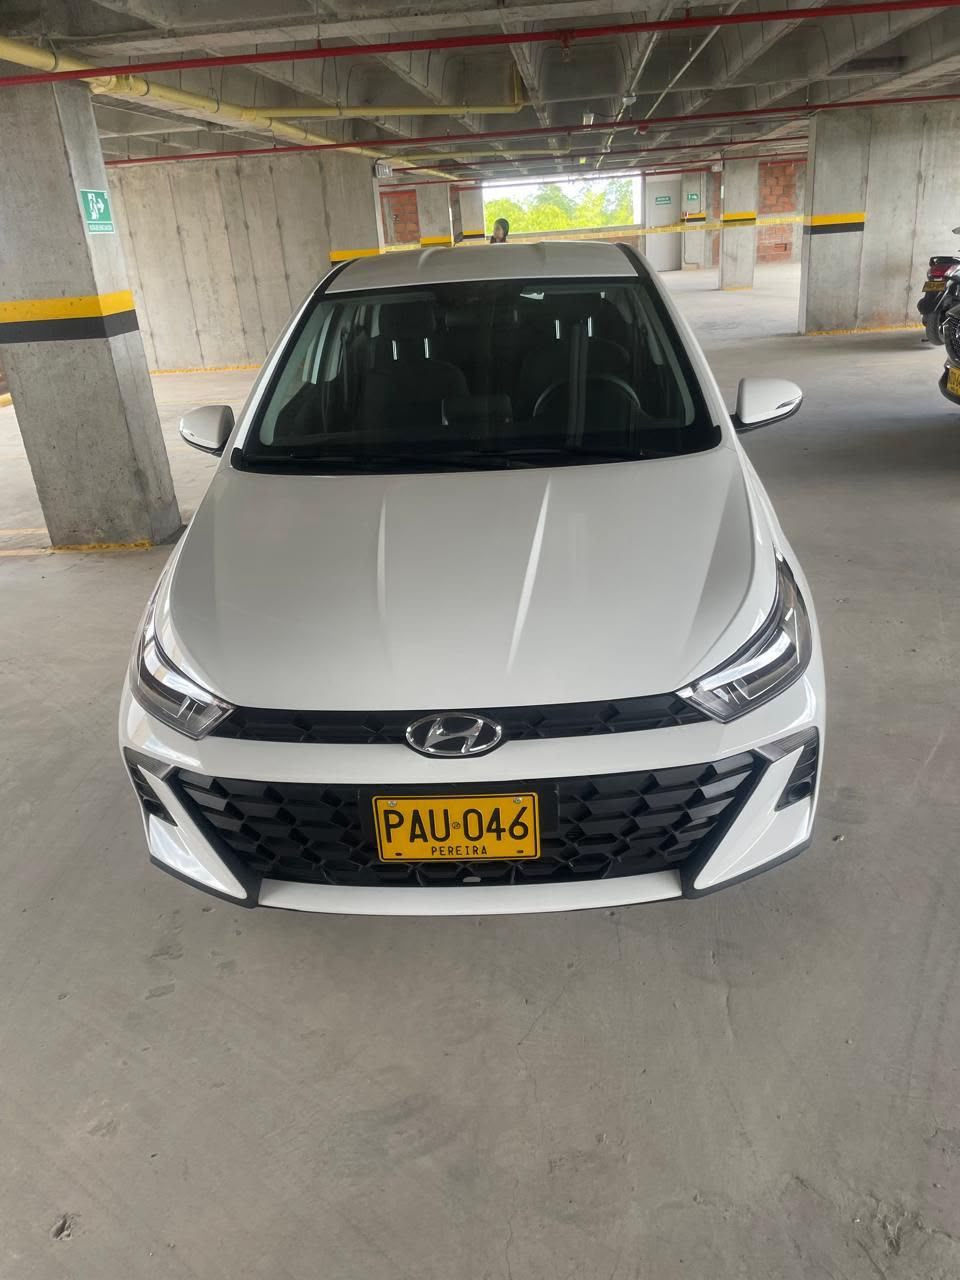
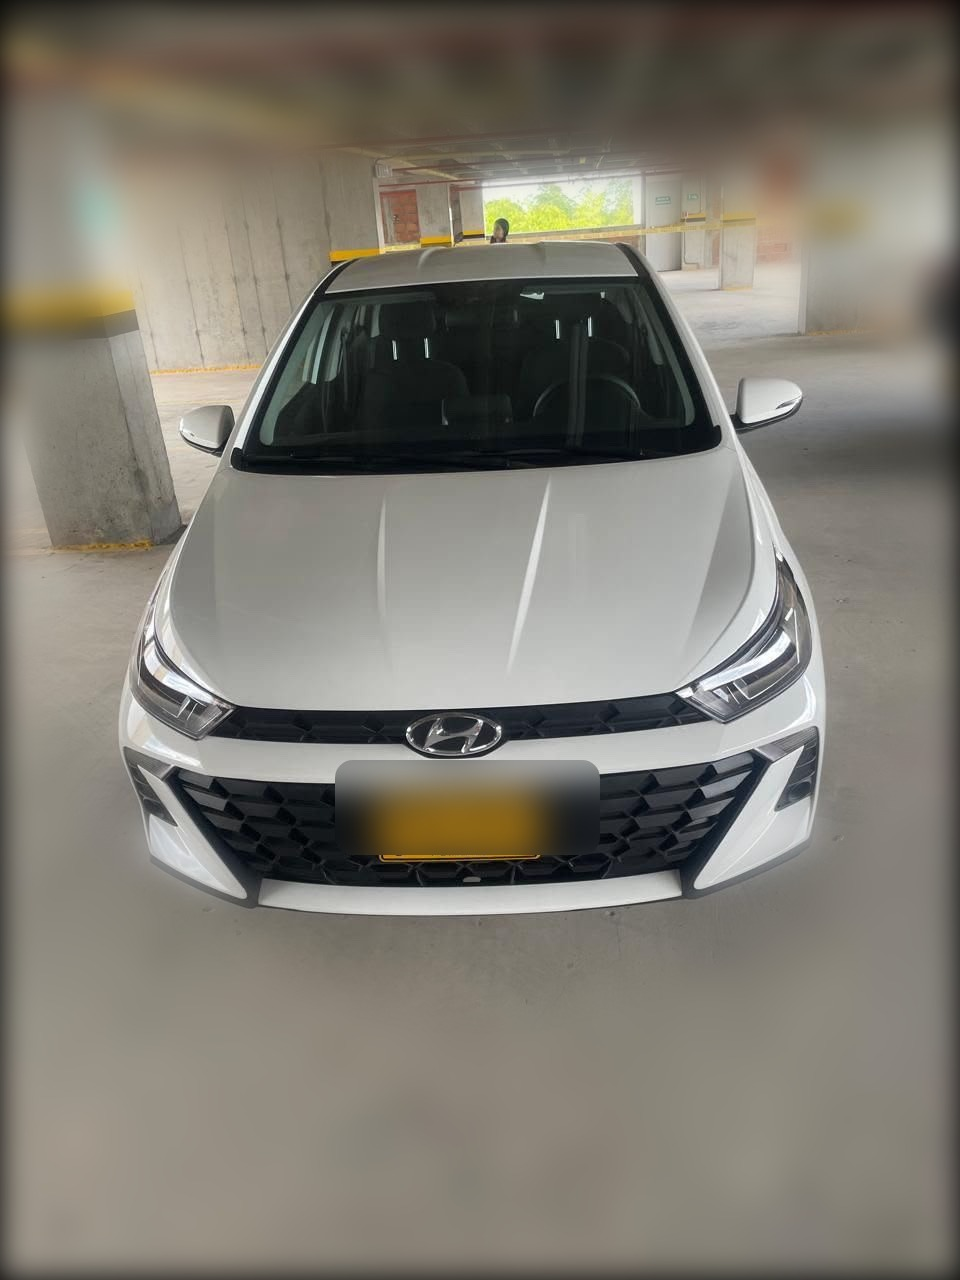
Show full car with blurred backgrounds and blurred plate
Addresses feedback that the hero photos were cropped/zoomed and the
license plate was fully visible:

- Blurred the license plate on the frontal photo (feathered rectangle
  blur via canvas), so it's unreadable but still visually present.
  Reapplied the same to og-image.jpg since it's the same photo.
- Applied a subtle background/bokeh blur to the frontal and maletero
  photos (canvas radial mask): the car body stays sharp, the garage
  clutter around it (pillars, other vehicles, floor) is softly blurred.
  Left the interior photo untouched since it has no separate background
  to blur without also blurring the dashboard itself.
- Restructured the hero: photos now render with object-fit:contain
  (computed via JS against each image's real aspect ratio) instead of
  cover, so the complete car is always visible, never cropped. A
  blurred, scaled-up copy of the same photo fills the letterboxed
  edges behind it so there's no hard black bar.
- Moved the title/CTA text out from an overlay on top of the photo into
  its own section right below the carousel. Overlaying full-height text
  and a fully-visible car conflicted structurally (the car's lower half
  needed the same space as the text), so decoupling them was the
  reliable fix rather than fighting gradient tuning per breakpoint.
- Hotspot positions are now computed in JS from the image's actual
  rendered box (accounts for contain letterboxing) instead of hardcoded
[…]

diff --git a/index.html b/index.html
@@ -212,8 +212,9 @@
   /* ---------- Hero visual: full-bleed photo carousel ---------- */
   .hero-visual{
     position:relative;
-    height:calc(100vh - var(--header-h,64px) - var(--sticky-h,0px));
+    height:80vh;
     min-height:420px;
+    max-height:820px;
     overflow:hidden;
     background:var(--ink);
   }
@@ -223,12 +224,16 @@
     transition:opacity 700ms var(--ease-out);
   }
   .hv-slide.is-active{opacity:1;pointer-events:auto;}
-  .hv-slide img{width:100%;height:100%;object-fit:cover;display:block;}
-  .hv-slide[data-slide="0"] img{object-position:center 32%;}
-  .hv-slide[data-slide="2"] img{object-position:center 40%;}
+  .hv-backdrop{
+    position:absolute;inset:0;
+    background-size:cover;background-position:center;
+    filter:blur(35px) brightness(0.75);
+    transform:scale(1.15);
+  }
+  .hv-slide img{position:relative;width:100%;height:100%;object-fit:contain;display:block;}
   .hv-overlay{
     position:absolute;inset:0;pointer-events:none;
-    background:linear-gradient(180deg, rgba(20,22,26,0.18) 0%, rgba(20,22,26,0.08) 28%, rgba(20,22,26,0.6) 48%, rgba(20,22,26,0.88) 68%, rgba(20,22,26,0.94) 100%);
+    background:linear-gradient(180deg, rgba(20,22,26,0.3) 0%, rgba(20,22,26,0) 16%, rgba(20,22,26,0) 84%, rgba(20,22,26,0.4) 100%);
   }
 
   .hotspot{
@@ -289,13 +294,15 @@
   .hv-arrow-next{right:var(--sp-4);}
   @media (max-width:640px){.hv-arrow{width:36px;height:36px;}}
 
-  .hv-content{
-    position:absolute;left:0;right:0;bottom:0;z-index:5;
-    max-width:640px;margin:0 auto;text-align:center;color:var(--paper);
-    padding:0 var(--sp-5) var(--sp-7);
+  .hv-text-section{
+    background:var(--ink);
+    padding:var(--sp-7) 0 var(--sp-6);
+    text-align:center;
+    color:var(--paper);
   }
-  .hv-content h1{font-size:var(--fs-700);color:var(--paper);font-weight:500;margin-top:var(--sp-3);}
-  .hv-content h1 .accent{color:var(--yellow);}
+  .hv-text-section .container{max-width:640px;}
+  .hv-text-section h1{font-size:var(--fs-700);color:var(--paper);font-weight:500;margin-top:var(--sp-3);}
+  .hv-text-section h1 .accent{color:var(--yellow);}
   .hero-sub{margin-top:var(--sp-3);font-size:var(--fs-300);font-weight:400;color:var(--muted);}
   .hv-dynamic{margin-top:var(--sp-2);min-height:1.4em;}
   .hero-hint{font-size:var(--fs-200);font-weight:400;color:var(--muted);}
@@ -311,15 +318,10 @@
   .hv-dynamic.open .hv-detail-card{display:block;}
   .hv-detail-card h3{font-size:var(--fs-300);color:var(--yellow);font-weight:500;}
   .hv-detail-card p{margin-top:var(--sp-2);color:var(--muted);font-size:var(--fs-200);}
-  .hv-content .btn{margin-top:var(--sp-5);}
+  .hv-text-section .btn{margin-top:var(--sp-5);}
 
   @media (max-width:640px){
-    .hv-content h1{font-size:var(--fs-600);}
-    .hv-content{padding-bottom:var(--sp-6);}
-    .hotspot[data-key="interior"]{top:16% !important;}
-    .hotspot[data-key="tech"]{top:14% !important;}
-    .hotspot[data-key="drive"]{top:26% !important;}
-    .hotspot[data-key="safety"]{top:34% !important;}
+    .hv-text-section h1{font-size:var(--fs-600);}
   }
 
   /* Reservation */
@@ -567,28 +569,31 @@
   <!-- HERO -->
   <section class="hero-visual" id="heroVisual">
     <div class="hv-slide is-active" data-slide="0">
+      <div class="hv-backdrop" style="background-image:url('images/hv20-frontal.jpg')"></div>
       <img src="images/hv20-frontal.jpg" alt="Hyundai HV20 blanco, vista frontal, disponible para alquiler en Pereira" width="960" height="1280">
-      <button class="hotspot" type="button" data-key="interior" style="left:26%;top:25%;" aria-label="Interior y comodidad">
+      <button class="hotspot" type="button" data-key="interior" data-px="37" data-py="26" aria-label="Interior y comodidad">
         <svg viewBox="0 0 24 24" fill="none" stroke="currentColor" stroke-width="3"><path d="M12 5v14M5 12h14"/></svg>
         <span class="hotspot-label">Interior y comodidad</span>
       </button>
-      <button class="hotspot" type="button" data-key="tech" style="left:70%;top:23%;" aria-label="Tecnología a bordo">
+      <button class="hotspot" type="button" data-key="tech" data-px="63" data-py="26" aria-label="Tecnología a bordo">
         <svg viewBox="0 0 24 24" fill="none" stroke="currentColor" stroke-width="3"><path d="M12 5v14M5 12h14"/></svg>
         <span class="hotspot-label">Tecnología a bordo</span>
       </button>
-      <button class="hotspot" type="button" data-key="drive" style="left:50%;top:40%;" aria-label="Motor automático">
+      <button class="hotspot" type="button" data-key="drive" data-px="51" data-py="41" aria-label="Motor automático">
         <svg viewBox="0 0 24 24" fill="none" stroke="currentColor" stroke-width="3"><path d="M12 5v14M5 12h14"/></svg>
         <span class="hotspot-label">Motor automático</span>
       </button>
-      <button class="hotspot" type="button" data-key="safety" style="left:20%;top:46%;" aria-label="Seguridad y garantía">
+      <button class="hotspot" type="button" data-key="safety" data-px="50" data-py="60" aria-label="Seguridad y garantía">
         <svg viewBox="0 0 24 24" fill="none" stroke="currentColor" stroke-width="3"><path d="M12 5v14M5 12h14"/></svg>
         <span class="hotspot-label">Seguridad y garantía</span>
       </button>
     </div>
     <div class="hv-slide" data-slide="1">
+      <div class="hv-backdrop" style="background-image:url('images/hv20-interior.jpg')"></div>
       <img src="images/hv20-interior.jpg" alt="Interior del Hyundai HV20: pantalla táctil, CarPlay y panel digital" width="1280" height="960">
     </div>
     <div class="hv-slide" data-slide="2">
+      <div class="hv-backdrop" style="background-image:url('images/hv20-maletero.jpg')"></div>
       <img src="images/hv20-maletero.jpg" alt="Maletero del Hyundai HV20 abierto, con espacio para equipaje" width="960" height="1280">
     </div>
 
@@ -607,7 +612,10 @@
       <svg viewBox="0 0 24 24" fill="none" stroke="currentColor" stroke-width="2.4"><path d="M9 5l7 7-7 7"/></svg>
     </button>
 
-    <div class="hv-content">
+  </section>
+
+  <section class="hv-text-section">
+    <div class="container">
       <span class="eyebrow on-dark">Alquiler de carros en Pereira</span>
       <h1>Explora el Hyundai <span class="accent">HV20</span></h1>
       <p class="hero-sub">Automático, con aire acondicionado, CarPlay y Android Auto.</p>
@@ -895,18 +903,6 @@
 </div>
 
 <script>
-  // Altura real del header y de la barra CTA fija, para que el hero ocupe exactamente el resto de la pantalla
-  (function(){
-    var header = document.querySelector('header');
-    var sticky = document.querySelector('.sticky-cta');
-    function setHeights(){
-      document.documentElement.style.setProperty('--header-h', header.offsetHeight + 'px');
-      document.documentElement.style.setProperty('--sticky-h', (sticky ? sticky.offsetHeight : 0) + 'px');
-    }
-    setHeights();
-    window.addEventListener('resize', setHeights);
-  })();
-
   // Carrusel de fotos del hero
   (function(){
     var slides = document.querySelectorAll('.hv-slide');
@@ -931,6 +927,32 @@
       dot.addEventListener('click', function(){ goTo(parseInt(dot.getAttribute('data-goto'), 10)); resetAutoplay(); });
     });
     resetAutoplay();
+  })();
+
+  // Ubica los hotspots sobre la imagen real (object-fit:contain), no sobre el slide completo
+  (function(){
+    var slide = document.querySelector('.hv-slide[data-slide="0"]');
+    var img = slide.querySelector('img');
+    var hotspots = slide.querySelectorAll('.hotspot');
+
+    function place(){
+      var box = slide.getBoundingClientRect();
+      var iw = img.naturalWidth, ih = img.naturalHeight;
+      if(!iw || !ih || !box.width || !box.height) return;
+      var scale = Math.min(box.width / iw, box.height / ih);
+      var renderW = iw * scale, renderH = ih * scale;
+      var offsetX = (box.width - renderW) / 2;
+      var offsetY = (box.height - renderH) / 2;
+      hotspots.forEach(function(h){
+        var px = parseFloat(h.getAttribute('data-px'));
+        var py = parseFloat(h.getAttribute('data-py'));
+        h.style.left = (offsetX + (px / 100) * renderW) + 'px';
+        h.style.top = (offsetY + (py / 100) * renderH) + 'px';
+      });
+    }
+
+    if(img.complete){ place(); } else { img.addEventListener('load', place); }
+    window.addEventListener('resize', place);
   })();
 
   // Hotspots sobre la foto frontal
